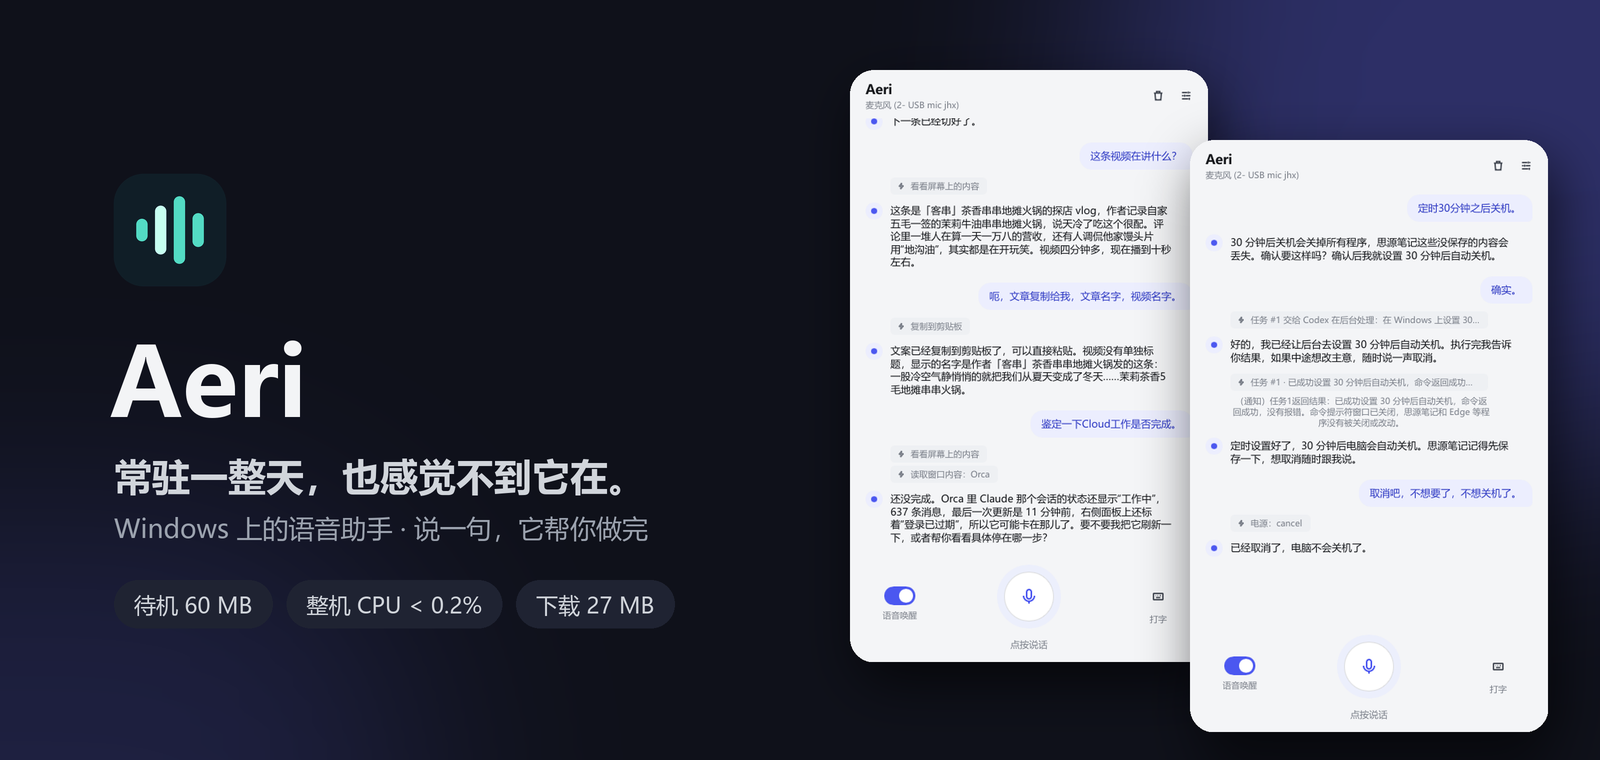
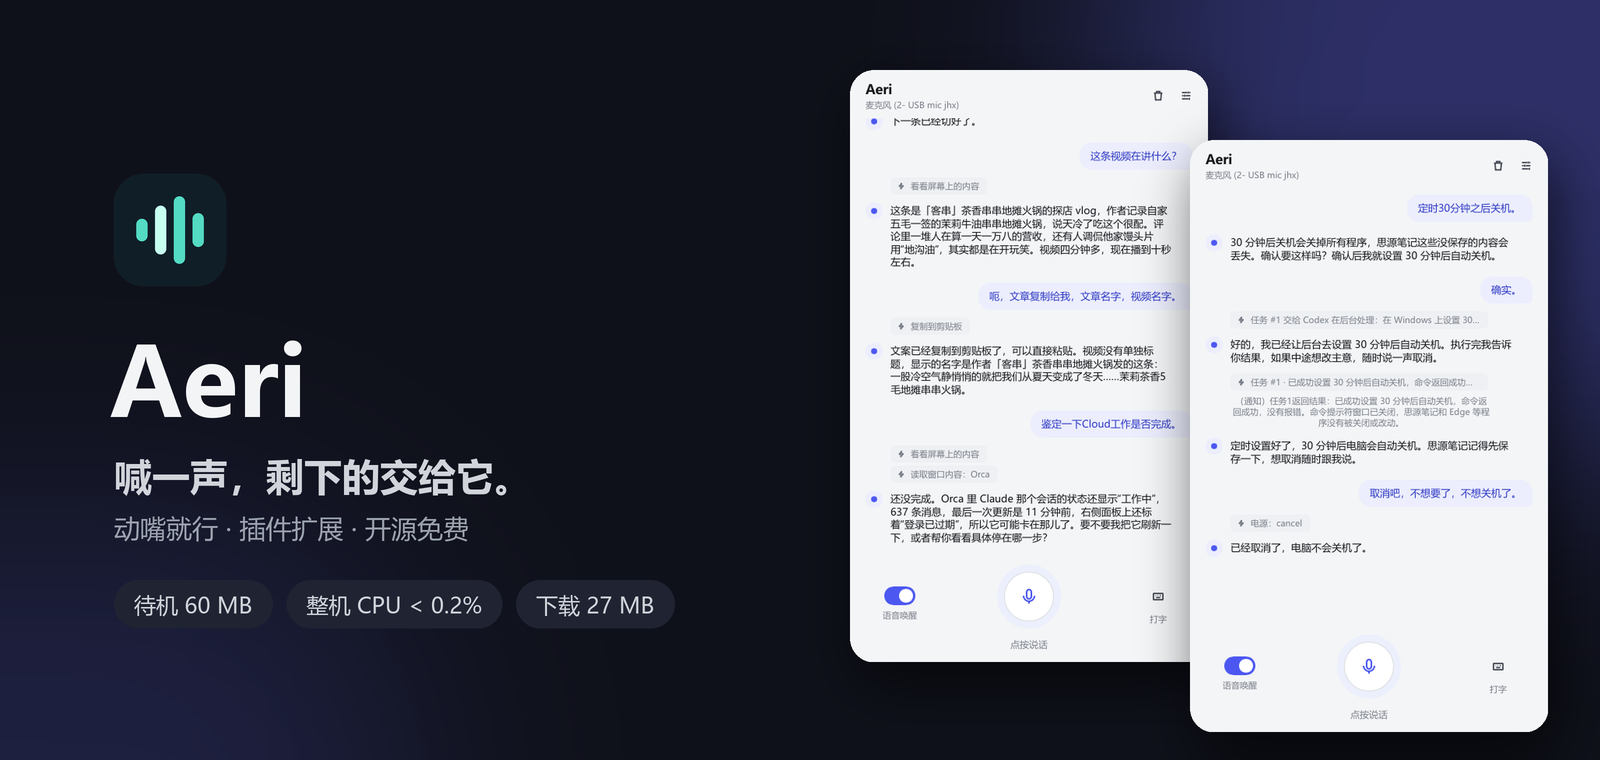
Lead with three pillars: hands-free, plugins, light; new tagline 'Just say "Hey Aeri." It does the rest.'

Changed region(s): [[0.0625, 0.6053, 0.4062, 0.7263]]

diff --git a/scripts/make_hero.py b/scripts/make_hero.py
@@ -34,9 +34,9 @@ def paste_card(canvas, img, xy, shadow_alpha):
 
 
 TEXT = {
-    "zh": {"tagline": "常驻一整天，也感觉不到它在。", "sub": "Windows 上的语音助手 · 说一句，它帮你做完",
+    "zh": {"tagline": "喊一声，剩下的交给它。", "sub": "动嘴就行 · 插件扩展 · 开源免费",
            "chips": ["待机 60 MB", "整机 CPU < 0.2%", "下载 27 MB"], "suffix": "", "shots": ["screen-read.png", "shutdown-confirm.png"], "bold": FONT_BOLD, "regular": FONT},
-    "en": {"tagline": "Voice that actually gets things done.", "sub": "A lightweight voice assistant for Windows",
+    "en": {"tagline": "Just say \"Hey Aeri.\" It does the rest.", "sub": "Hands-free · plugins for any app · open source",
            "chips": ["60 MB idle", "< 0.2% CPU", "27 MB download"], "suffix": "-en", "shots": ["en-chat.png", "en-settings.png"],
            "bold": "C:/Windows/Fonts/segoeuib.ttf", "regular": "C:/Windows/Fonts/segoeui.ttf"},
 }

diff --git a/README.md b/README.md
@@ -1,7 +1,7 @@
 <p align="center">
   <picture>
     <source media="(prefers-color-scheme: dark)" srcset="docs/screenshots/hero-en-dark.png">
-    <img src="docs/screenshots/hero-en-light.png" alt="Aeri: voice that actually gets things done">
+    <img src="docs/screenshots/hero-en-light.png" alt="Aeri: just say Hey Aeri, it does the rest">
   </picture>
 </p>
 
@@ -25,7 +25,26 @@
 
 <br>
 
-**Aeri is a voice assistant for Windows that doesn't just talk — it does things.** Say "Hey Aeri", ask for something, and it opens apps, renames files, writes notes, changes settings, or hands longer jobs to a background agent. It idles at about 60 MB of RAM, so you can leave it running all day.
+<h3 align="center">Just say "Hey Aeri." It does the rest.</h3>
+
+<table>
+<tr>
+<td width="33%" valign="top">
+<h4>🎙 Hands-free</h4>
+Say <b>"Hey Aeri"</b> and what you need. It opens apps, renames files, changes settings and sets reminders. No clicks, no keyboard. It also speaks up on its own when a reminder is due or a background job is done.
+</td>
+<td width="33%" valign="top">
+<h4>🧩 Plugins</h4>
+Teach it any app with a <b>plain-text plugin</b>: a short Markdown guide, no code. 13 ready to install: Spotify, Outlook, VS Code, Slack, Notion, Obsidian and more.
+</td>
+<td width="33%" valign="top">
+<h4>🪶 Light</h4>
+About <b>60 MB</b> of memory and under 0.2% CPU when idle. One Rust process, 27 MB download. Leave it on all day.
+</td>
+</tr>
+</table>
+
+Open source (MIT). Bring any AI model, or run it fully offline with Ollama. The wake word is detected on your PC, and nothing is recorded or sent before you say it. No account, no telemetry.
 
 ## You say it, Aeri does it
 

diff --git a/README.zh-CN.md b/README.zh-CN.md
@@ -25,6 +25,27 @@
 
 <br>
 
+<h3 align="center">喊一声 "Hey Aeri"，剩下的交给它。</h3>
+
+<table>
+<tr>
+<td width="33%" valign="top">
+<h4>🎙 动嘴就行</h4>
+喊一声唤醒词，说要做什么：打开软件、改文件名、调设置、设提醒，不用碰鼠标键盘。提醒到点、后台任务做完，它会主动开口告诉你。
+</td>
+<td width="33%" valign="top">
+<h4>🧩 插件扩展</h4>
+用一份<b>纯文字的插件</b>教它用任何软件：一段 Markdown 说明，不用写代码。现有 13 个可以直接装：Spotify、Outlook、VS Code、Slack、Notion、Obsidian、思源笔记等。
+</td>
+<td width="33%" valign="top">
+<h4>🪶 轻</h4>
+待机约 <b>60 MB</b> 内存、整机 CPU 不到 0.2%，一个 Rust 进程，下载 27 MB，开一整天也感觉不到。
+</td>
+</tr>
+</table>
+
+开源（MIT），大模型随你选，接 Ollama 可以全程离线。唤醒词在本机检测，没喊之前不录音、不上传。不用注册，没有遥测。
+
 ## 你说，它做
 
 > **「把这个文件改名叫周报」**
